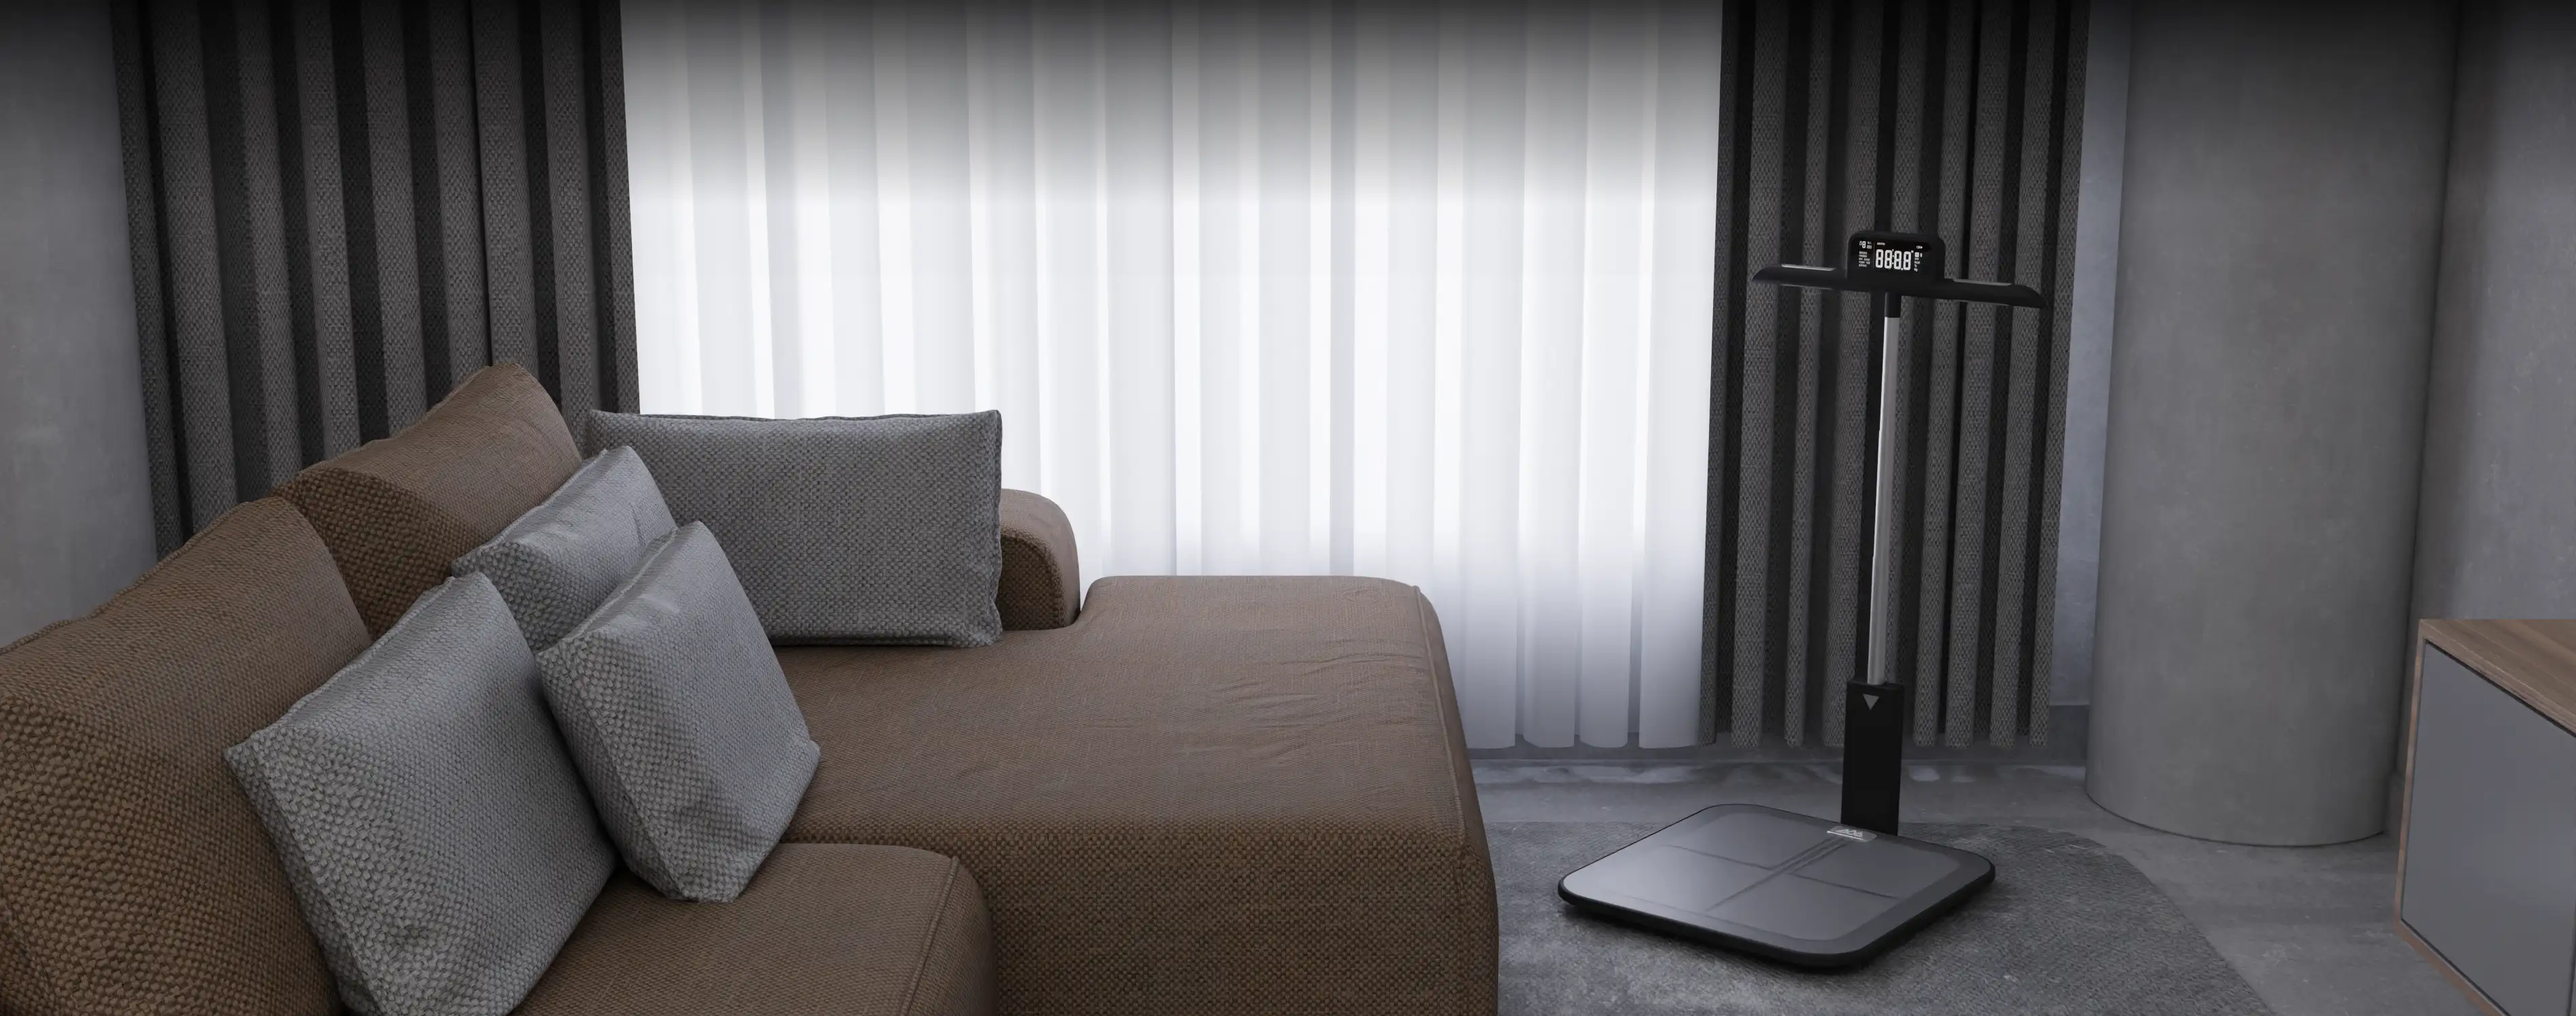
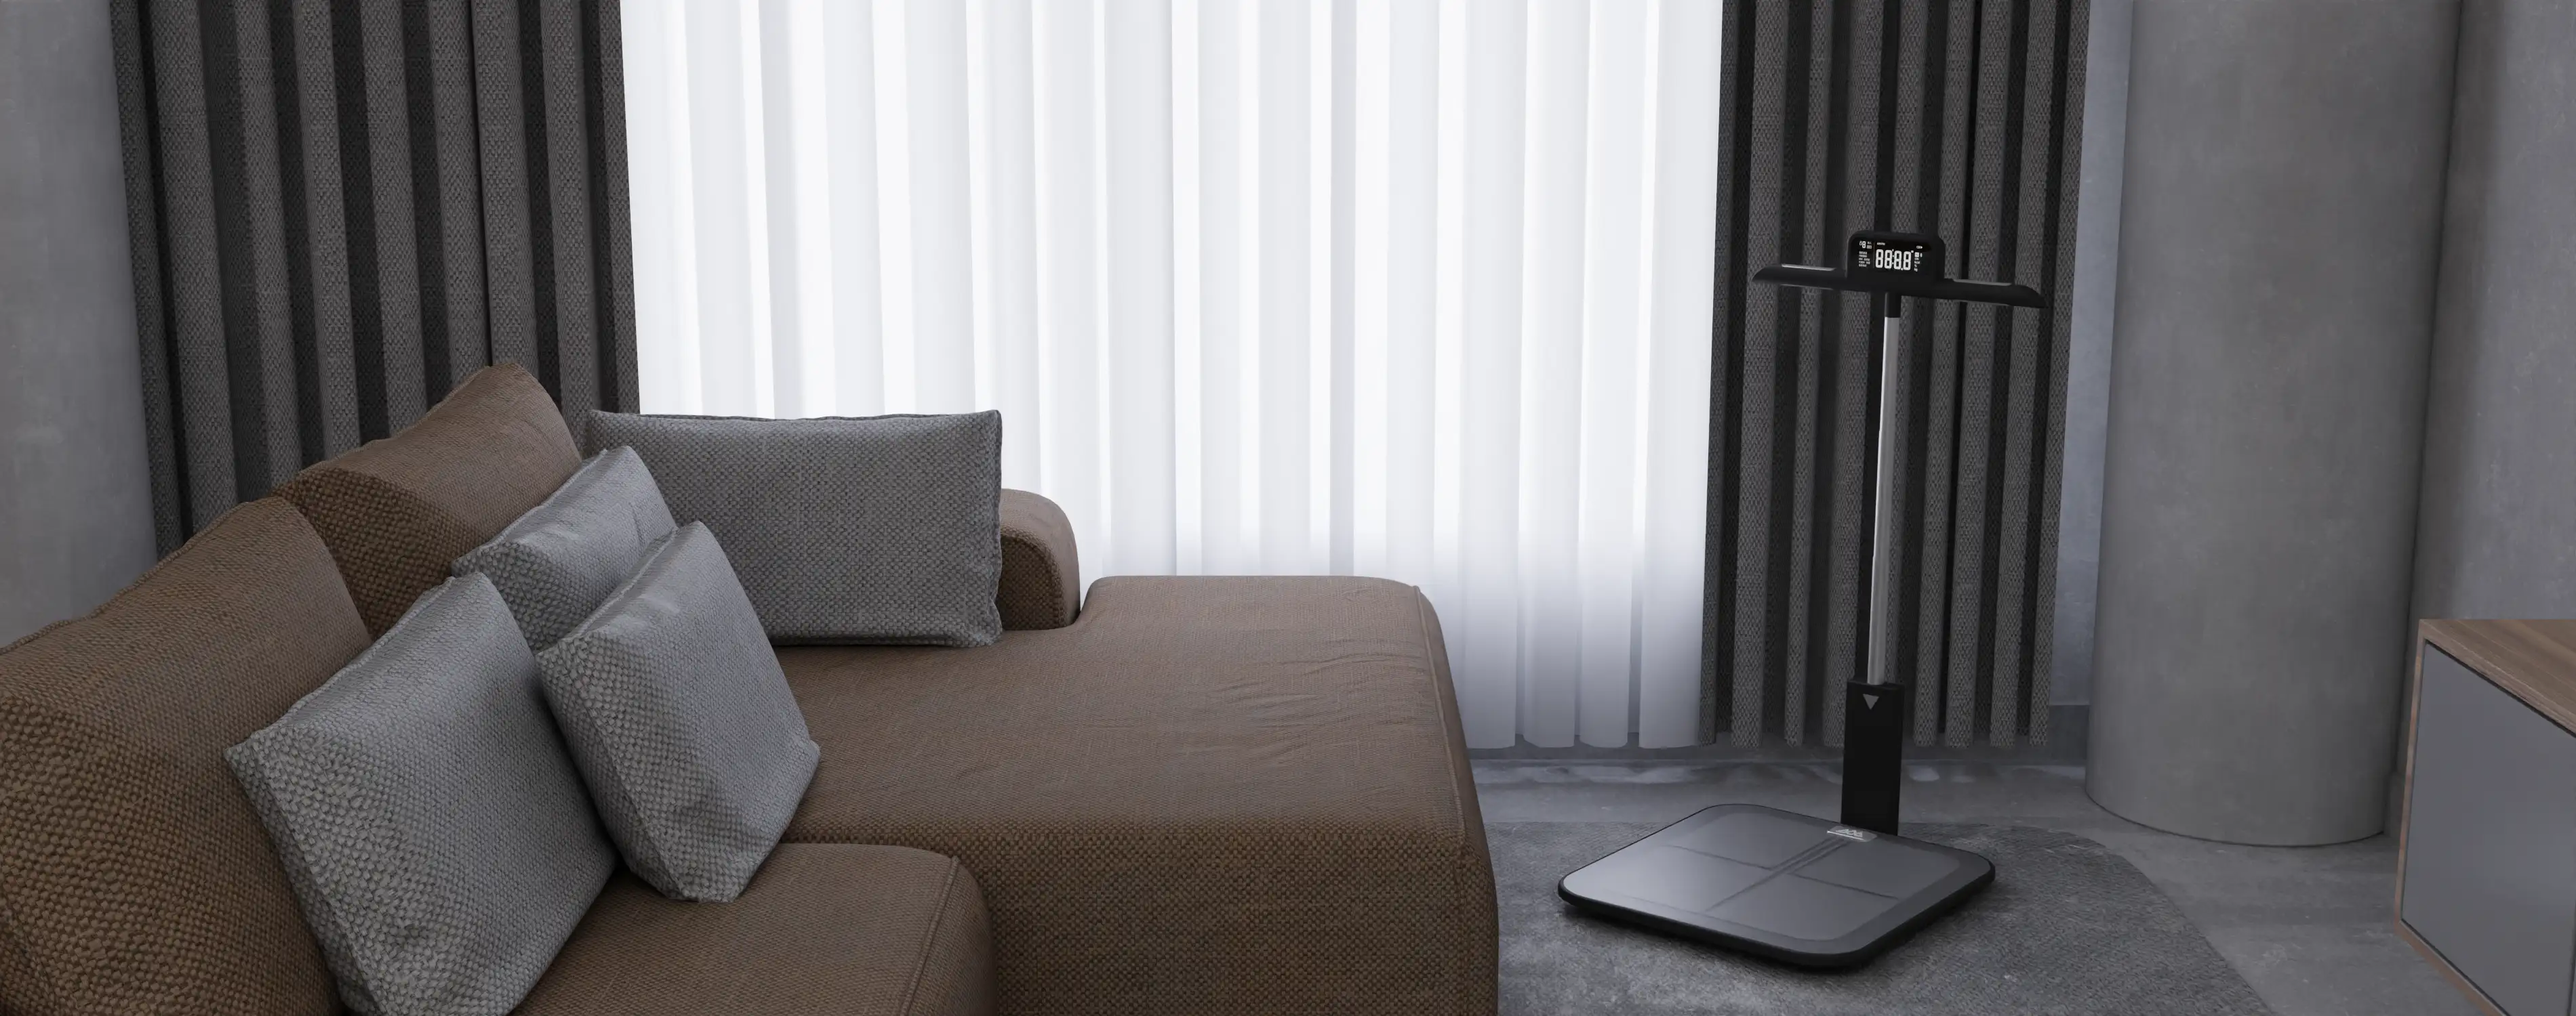
1

Changed region(s): [[0.0, 0.0, 1.0, 0.184]]

diff --git a/project11.html b/project11.html
@@ -10,6 +10,7 @@
     <link rel="stylesheet" href="https://cdn.jsdelivr.net/npm/gitalk@1/dist/gitalk.css">
     <link rel="stylesheet" href="css/bootstrap.min.css">
     <link rel="stylesheet" href="css/main.css">
+    <title>Works | Zejun Huang</title>
   </head>
   <body>
     <div id="preloader">
@@ -70,48 +71,48 @@
         </div>
         <div class="row no-gutter">
           <div class="col-md-6">
-            <a data-fancybox="gallery" data-src="files/project11/page_1.jpeg" data-caption="">
-              <img src="files/project11/page_1.jpeg" class="image-zoom"></img>
+            <a data-fancybox="gallery" data-src="files/project11/page_1.webp" data-caption="">
+              <img src="files/project11/page_1.webp" class="image-zoom"></img>
             </a>
           </div>
           <div class="col-md-6">
-            <a data-fancybox="gallery" data-src="files/project11/page_2.jpeg" data-caption="">
-              <img src="files/project11/page_2.jpeg" class="image-zoom"></img>
+            <a data-fancybox="gallery" data-src="files/project11/page_2.webp" data-caption="">
+              <img src="files/project11/page_2.webp" class="image-zoom"></img>
             </a>
           </div>
           <div class="col-md-6">
-            <a data-fancybox="gallery" data-src="files/project11/page_3.jpeg" data-caption="">
-              <img src="files/project11/page_3.jpeg" class="image-zoom"></img>
+            <a data-fancybox="gallery" data-src="files/project11/page_3.webp" data-caption="">
+              <img src="files/project11/page_3.webp" class="image-zoom"></img>
             </a>
           </div>
           <div class="col-md-6">
-            <a data-fancybox="gallery" data-src="files/project11/page_4.jpeg" data-caption="">
-              <img src="files/project11/page_4.jpeg" class="image-zoom"></img>
+            <a data-fancybox="gallery" data-src="files/project11/page_4.webp" data-caption="">
+              <img src="files/project11/page_4.webp" class="image-zoom"></img>
             </a>
           </div>
           <div class="col-md-6">
-            <a data-fancybox="gallery" data-src="files/project11/page_5.jpeg" data-caption="">
-              <img src="files/project11/page_5.jpeg" class="image-zoom"></img>
+            <a data-fancybox="gallery" data-src="files/project11/page_5.webp" data-caption="">
+              <img src="files/project11/page_5.webp" class="image-zoom"></img>
             </a>
           </div>
           <div class="col-md-6">
-            <a data-fancybox="gallery" data-src="files/project11/page_6.jpeg" data-caption="">
-              <img src="files/project11/page_6.jpeg" class="image-zoom"></img>
+            <a data-fancybox="gallery" data-src="files/project11/page_6.webp" data-caption="">
+              <img src="files/project11/page_6.webp" class="image-zoom"></img>
             </a>
           </div>
           <div class="col-md-6">
-            <a data-fancybox="gallery" data-src="files/project11/page_7.jpeg" data-caption="">
-              <img src="files/project11/page_7.jpeg" class="image-zoom"></img>
+            <a data-fancybox="gallery" data-src="files/project11/page_7.webp" data-caption="">
+              <img src="files/project11/page_7.webp" class="image-zoom"></img>
             </a>
           </div>
           <div class="col-md-6">
-            <a data-fancybox="gallery" data-src="files/project11/page_8.jpeg" data-caption="">
-              <img src="files/project11/page_8.jpeg" class="image-zoom"></img>
+            <a data-fancybox="gallery" data-src="files/project11/page_8.webp" data-caption="">
+              <img src="files/project11/page_8.webp" class="image-zoom"></img>
             </a>
           </div>
           <div class="col-md-6">
-            <a data-fancybox="gallery" data-src="files/project11/page_9.jpeg" data-caption="">
-              <img src="files/project11/page_9.jpeg" class="image-zoom"></img>
+            <a data-fancybox="gallery" data-src="files/project11/page_9.webp" data-caption="">
+              <img src="files/project11/page_9.webp" class="image-zoom"></img>
             </a>
           </div>
         </div>

diff --git a/index.html b/index.html
@@ -9,6 +9,7 @@
     <link rel="stylesheet" href="https://cdn.jsdelivr.net/npm/@fancyapps/ui@5.0/dist/fancybox/fancybox.css">
     <link rel="stylesheet" href="css/bootstrap.min.css">
     <link rel="stylesheet" href="css/main.css">
+    <title>Works | Zejun Huang</title>
     <style>
       html {
         scroll-behavior: smooth;
@@ -27,7 +28,6 @@
         animation: fadeInUp 1s ease forwards;
       }
     </style>
-	  <title>Works | Zejun Huang</title>
   </head>
   <body>
     <div id="preloader">

diff --git a/project8.html b/project8.html
@@ -10,9 +10,7 @@
     <link rel="stylesheet" href="https://cdn.jsdelivr.net/npm/gitalk@1/dist/gitalk.css">
     <link rel="stylesheet" href="css/bootstrap.min.css">
     <link rel="stylesheet" href="css/main.css">
-    <style>
-
-    </style>
+    <title>Works | Zejun Huang</title>
   </head>
   <body>
     <div id="preloader">

diff --git a/project14.html b/project14.html
@@ -10,6 +10,7 @@
     <link rel="stylesheet" href="https://cdn.jsdelivr.net/npm/gitalk@1/dist/gitalk.css">
     <link rel="stylesheet" href="css/bootstrap.min.css">
     <link rel="stylesheet" href="css/main.css">
+    <title>Works | Zejun Huang</title>
     <style>
       blockquote {
           font-style: italic;

diff --git a/project12.html b/project12.html
@@ -10,6 +10,7 @@
     <link rel="stylesheet" href="https://cdn.jsdelivr.net/npm/gitalk@1/dist/gitalk.css">
     <link rel="stylesheet" href="css/bootstrap.min.css">
     <link rel="stylesheet" href="css/main.css">
+    <title>Works | Zejun Huang</title>
   </head>
   <body>
     <div id="preloader">
